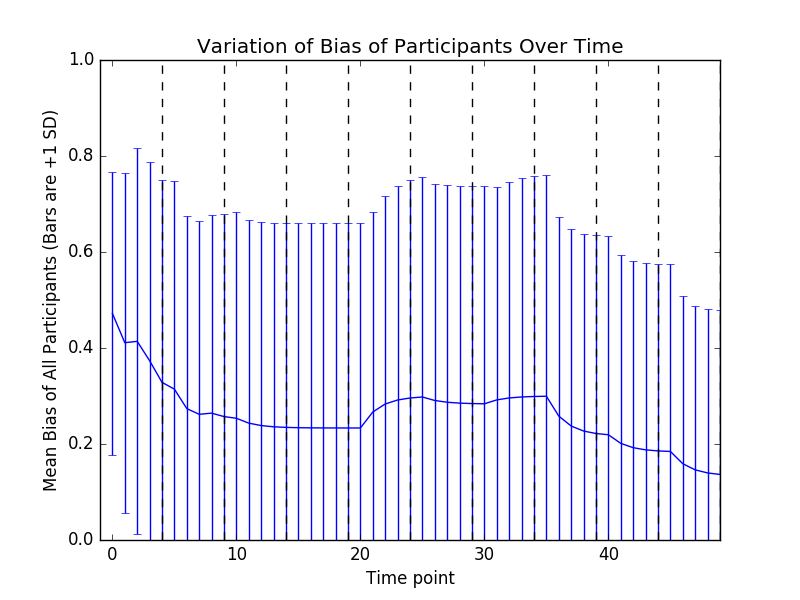
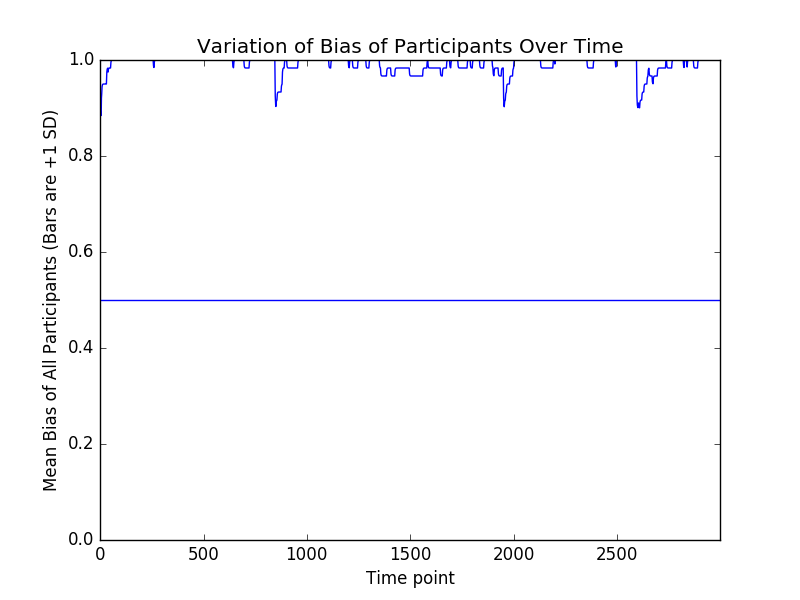
white bias experiments
Results of sam and tylers 11.30 meeting, trying to figure out why the
program always gets biased towards whites. DO NOT MERGE

diff --git a/V0Base Model 11.2.16.py b/V0Base Model 11.2.16.py
@@ -140,8 +140,8 @@ def create_speaker_plot(data,num_junctures, num_convos):
 	#Add a line between rounds
 	#pd.Series(black_speaking_t).plot(kind='bar')
 	plt.plot(black_speaking_t)
-	for t in range(len(data)): #How many rounds of conversation were there?
-			plt.axvline(num_junctures*(t+1)-1, linestyle='dashed',color='k') #Point a line at that end of that round
+	#for t in range(len(data)): #How many rounds of conversation were there?
+	#		plt.axvline(num_junctures*(t+1)-1, linestyle='dashed',color='k') #Point a line at that end of that round
 	plt.ylim(0,1)
 	plt.xlim(xmin=-1)
 	plt.ylabel('Proportion of Black Speakers')
@@ -157,13 +157,17 @@ def create_parts_plot(participants,n_junctures, rounds):
 	###########################
 	#Mean Individual biases across time
 	###########################
+	#Create sample
+	create_individual_plot(participants[0])
+	fig,ax=plt.subplots(1,1)
 	#At each juncture, read all participants bias levels.
 	part_bias_logs=pd.DataFrame([part.return_bias_log() for part in participants])
 	logs=part_bias_logs.describe().T
 	#print(logs)
-	logs['mean'].plot(yerr=logs['std'])
-	for t in range(rounds): #How many rounds of conversation were there?
-		plt.axvline(n_junctures*(t+1)-1, linestyle='dashed',color='k') #Point a line at that end of that round
+	logs['mean'].plot()#yerr=logs['std'])
+	plt.axhline(.5)
+	#for t in range(rounds): #How many rounds of conversation were there?
+		#plt.axvline(n_junctures*(t+1)-1, linestyle='dashed',color='k') #Point a line at that end of that round
 	#part_bias_logs.describe()#['mean']#.plot(kind='line')
 	plt.ylim(0,1)
 	plt.xlim(xmin=-1)
@@ -173,6 +177,11 @@ def create_parts_plot(participants,n_junctures, rounds):
 	plt.savefig('Bias of Participants Over time')
 	plt.close()
 
+def create_individual_plot(part):
+	#print(part.return_bias_log())
+	plt.plot(part.return_bias_log())
+	plt.ylim(-.2,1.2)
+	plt.savefig('Bias of this participant over time')
 
 ###################
 #Individual class
@@ -193,7 +202,7 @@ class Agent():
 			assert bias >=0 and bias <=1
 			self.bias_level=bias #Let's call this a "pro white bias--higher means more pro white"
 		else:
-			self.bias_level=random.random()
+			self.bias_level=min(max(0, random.gauss(.9,.1)),1)#random.random()/2+.5
 		self.gaze=None
 		self.bias_log=[] #Each agents bias at any point in the simulation
 
@@ -216,6 +225,10 @@ class Agent():
 		partner_race=self.output_gaze().return_race()
 		new_level=int(partner_race=='w') #Returns 1 if white, 0 if black
 		self.bias_level=(self.bias_level+new_level)/2
+		if self.bias_level>1:
+			self.bias_level=1
+		elif self.bias_level<0:
+			self.bias_level=0
 		
 
 	def update_gaze(self, partners):
@@ -257,5 +270,5 @@ class Agent():
 
 
 #
-stats=simulate_many_conversations(junctures=5,num_convos=10,rounds=10)
+stats=simulate_many_conversations(junctures=5,num_convos=10,rounds=600)
 
